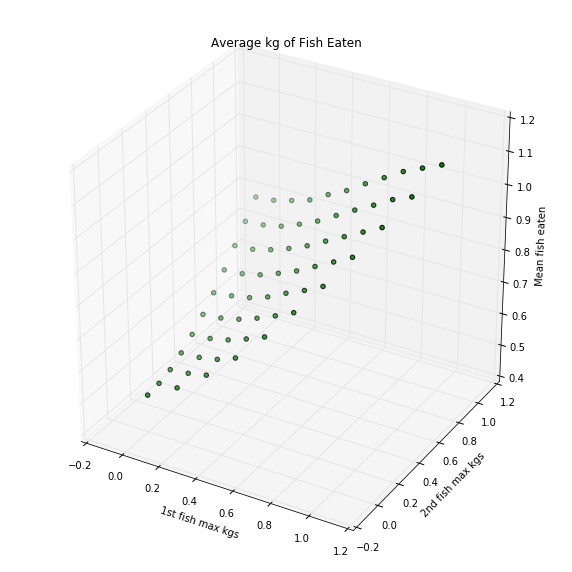
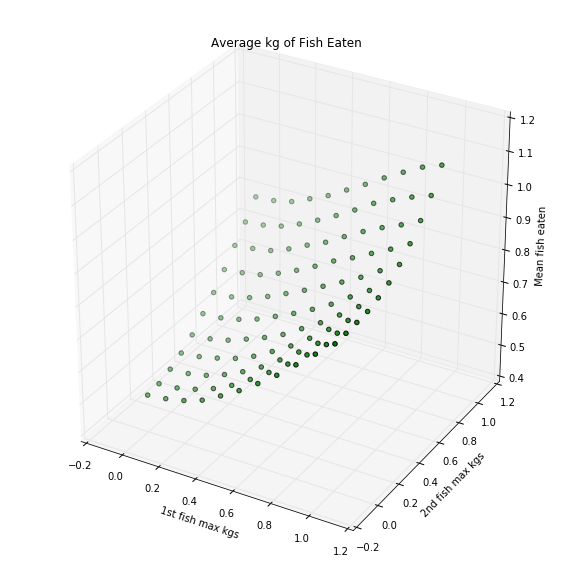
Even allow strange 3-hour scenarios

diff --git a/grizzly/grizzly.py b/grizzly/grizzly.py
@@ -94,8 +94,8 @@ def solve_3hour():
     for first_max_kg in max_kgs:
         for second_max_kg in max_kgs:
             # Eliminate scenarios that don't make sense (second_max_kg < first_max_kg)
-            if second_max_kg < first_max_kg:
-                continue
+            #if second_max_kg < first_max_kg:
+            #    continue
             first_max_kgs.append(first_max_kg)
             second_max_kgs.append(second_max_kg)
 
